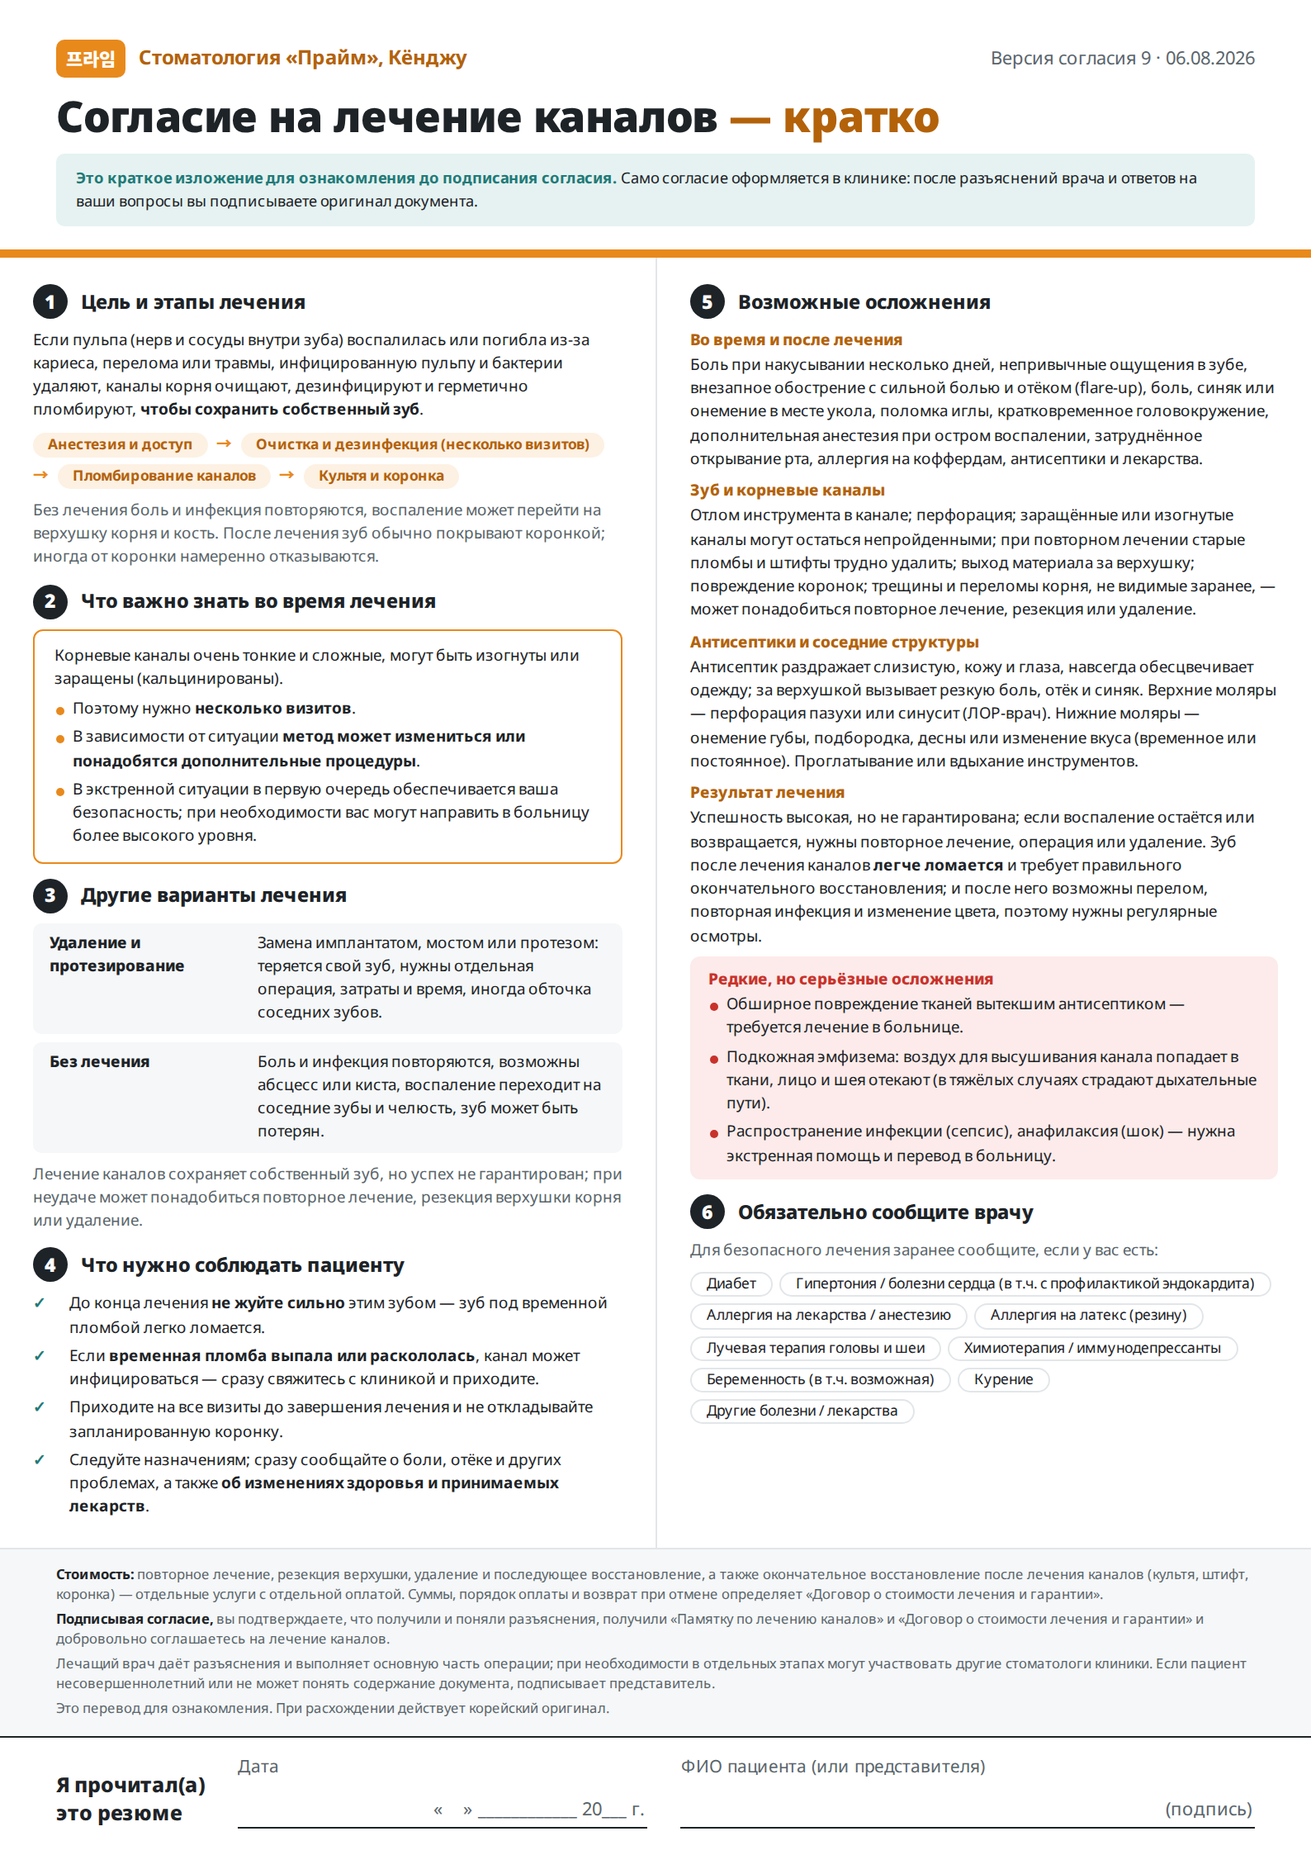
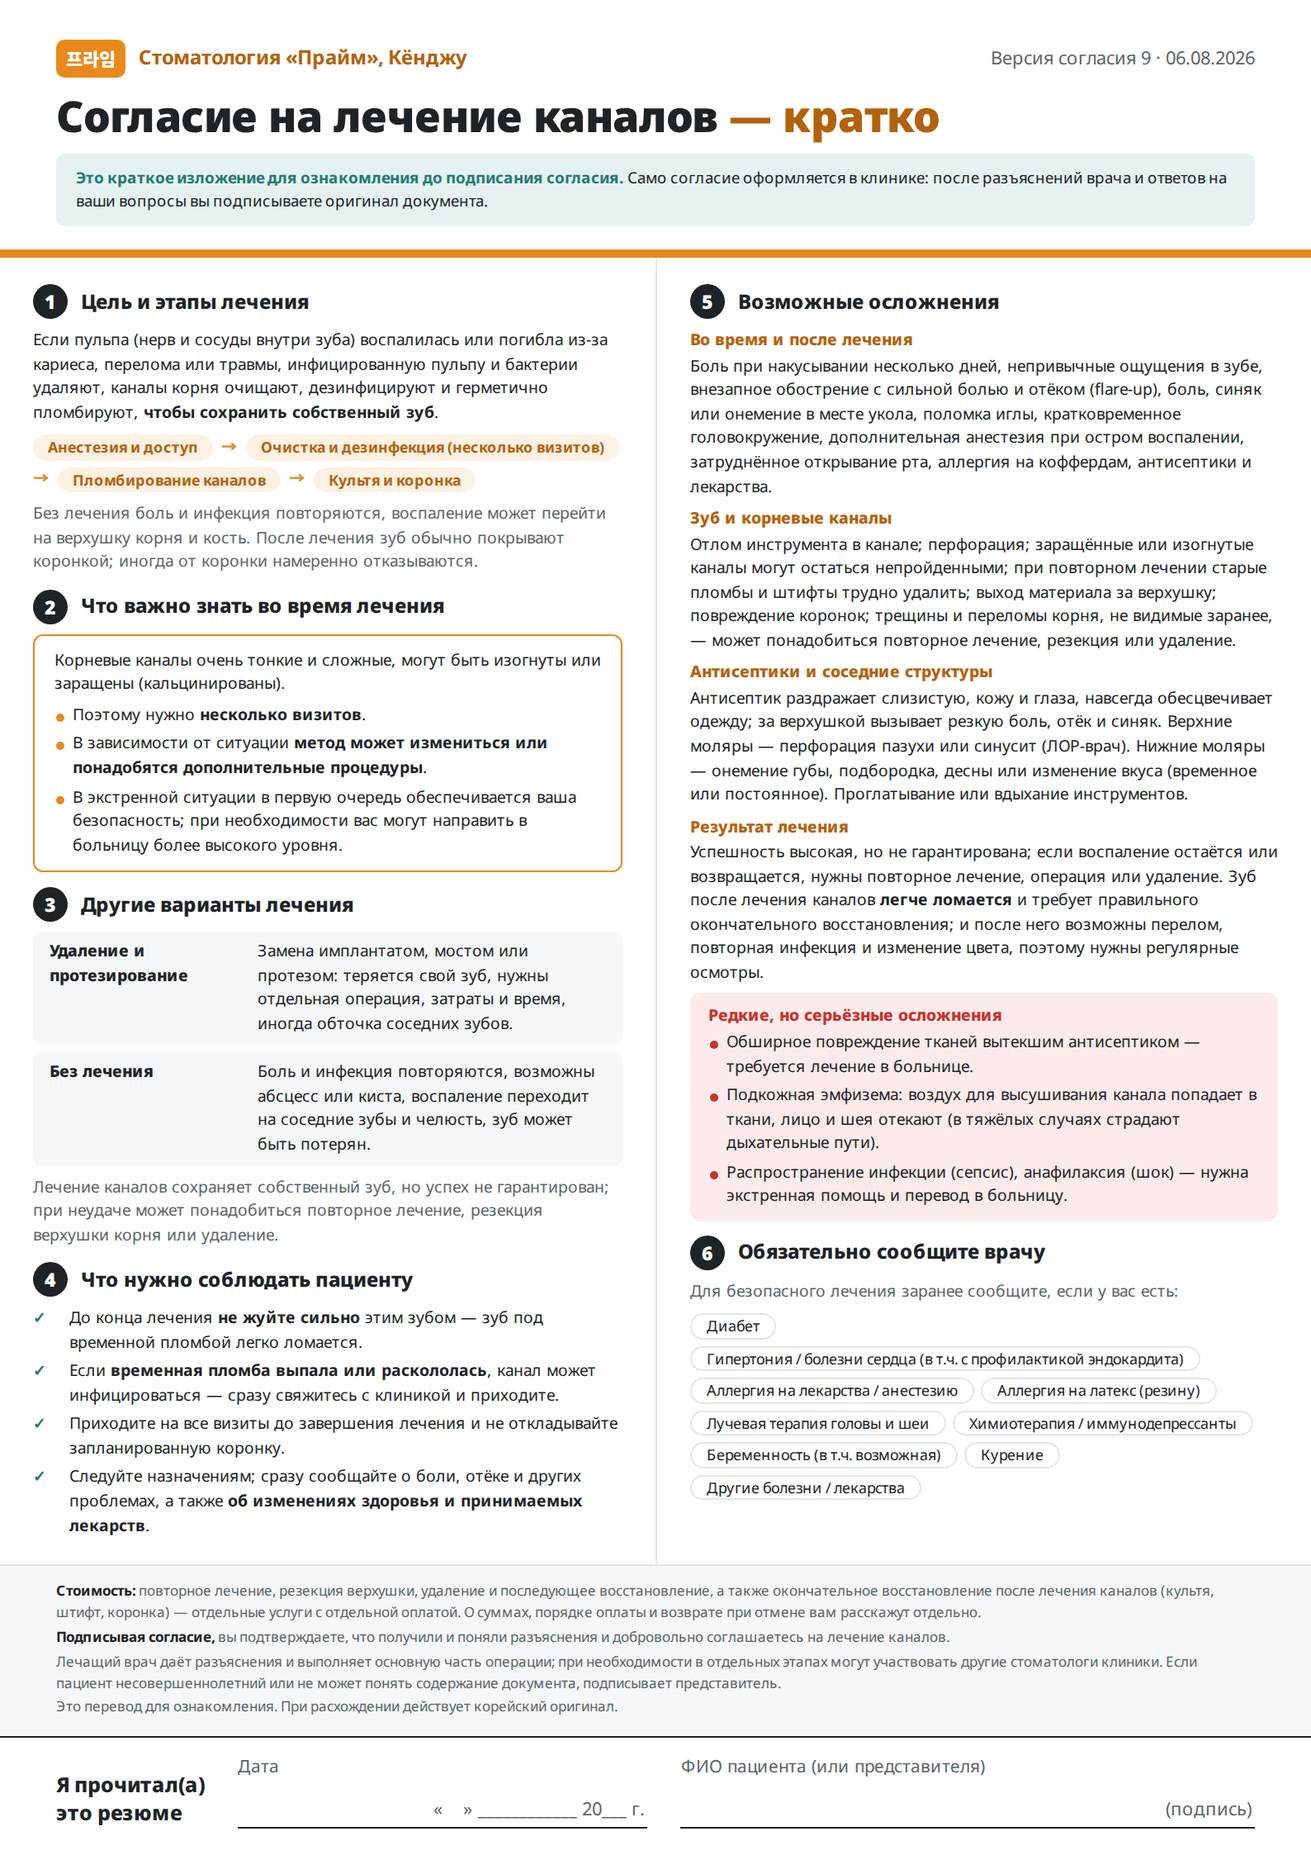
근관치료 동의서 요약: 근관치료 안내문·진료비 보증 계약서 언급 제외
Claude-Session: https://claude.ai/code/session_01CX56RpDesHuZ84DgHX2H83

diff --git a/handouts/근관치료_동의서_요약_th.html b/handouts/근관치료_동의서_요약_th.html
@@ -121,7 +121,7 @@ h2 { font-size: 1.24em; font-weight: 800; line-height: 1.3; }
     </section>
   </div>
 </main>
-<footer class="foot"><p><b>ค่ารักษา:</b> การรักษารากฟันซ้ำ ผ่าตัดปลายราก ถอนฟันและการบูรณะหลังจากนั้น รวมถึงการบูรณะขั้นสุดท้ายหลังรักษารากฟัน (แกนฟัน เดือยฟัน ครอบฟัน) เป็นการรักษาแยกต่างหากและมีค่าใช้จ่ายแยก จำนวนเงิน การชำระ และเงื่อนไขคืนเงินเมื่อยกเลิก กำหนดไว้ใน “สัญญาค่ารักษาและการรับประกัน”</p><p><b>การลงนามในหนังสือยินยอม</b> หมายถึงท่านได้รับคำอธิบายและเข้าใจเนื้อหาข้างต้น ได้รับ “เอกสารแนะนำการรักษารากฟัน” และ “สัญญาค่ารักษาและการรับประกัน” และยินยอมรับการรักษารากฟันด้วยความสมัครใจ</p><p>ทันตแพทย์เจ้าของไข้คือผู้ให้คำอธิบายและเป็นผู้ผ่าตัดหลัก หากจำเป็น ทันตแพทย์ท่านอื่นของคลินิกอาจร่วมในบางขั้นตอน หากผู้ป่วยเป็นผู้เยาว์หรือไม่สามารถเข้าใจเนื้อหาได้ ผู้แทนจะเป็นผู้ลงนาม</p><p>เอกสารนี้เป็นคำแปลเพื่อประกอบความเข้าใจ หากมีความไม่ตรงกัน ให้ยึดต้นฉบับภาษาเกาหลีเป็นหลัก</p></footer>
+<footer class="foot"><p><b>ค่ารักษา:</b> การรักษารากฟันซ้ำ ผ่าตัดปลายราก ถอนฟันและการบูรณะหลังจากนั้น รวมถึงการบูรณะขั้นสุดท้ายหลังรักษารากฟัน (แกนฟัน เดือยฟัน ครอบฟัน) เป็นการรักษาแยกต่างหากและมีค่าใช้จ่ายแยก จำนวนเงิน การชำระ และเงื่อนไขคืนเงินเมื่อยกเลิก จะแจ้งให้ทราบแยกต่างหาก</p><p><b>การลงนามในหนังสือยินยอม</b> หมายถึงท่านได้รับคำอธิบายและเข้าใจเนื้อหาข้างต้น และยินยอมรับการรักษารากฟันด้วยความสมัครใจ</p><p>ทันตแพทย์เจ้าของไข้คือผู้ให้คำอธิบายและเป็นผู้ผ่าตัดหลัก หากจำเป็น ทันตแพทย์ท่านอื่นของคลินิกอาจร่วมในบางขั้นตอน หากผู้ป่วยเป็นผู้เยาว์หรือไม่สามารถเข้าใจเนื้อหาได้ ผู้แทนจะเป็นผู้ลงนาม</p><p>เอกสารนี้เป็นคำแปลเพื่อประกอบความเข้าใจ หากมีความไม่ตรงกัน ให้ยึดต้นฉบับภาษาเกาหลีเป็นหลัก</p></footer>
 <section class="sign">
   <p class="lbl">ข้าพเจ้าได้อ่าน<br>เอกสารสรุปนี้แล้ว</p>
   <div class="f"><span>วันที่</span><div>______ เดือน __________ พ.ศ. ______</div></div>

diff --git a/handouts/근관치료_동의서_요약_ru.html b/handouts/근관치료_동의서_요약_ru.html
@@ -121,7 +121,7 @@ h2 { font-size: 1.24em; font-weight: 800; line-height: 1.3; }
     </section>
   </div>
 </main>
-<footer class="foot"><p><b>Стоимость:</b> повторное лечение, резекция верхушки, удаление и последующее восстановление, а также окончательное восстановление после лечения каналов (культя, штифт, коронка) — отдельные услуги с отдельной оплатой. Суммы, порядок оплаты и возврат при отмене определяет «Договор о стоимости лечения и гарантии».</p><p><b>Подписывая согласие,</b> вы подтверждаете, что получили и поняли разъяснения, получили «Памятку по лечению каналов» и «Договор о стоимости лечения и гарантии» и добровольно соглашаетесь на лечение каналов.</p><p>Лечащий врач даёт разъяснения и выполняет основную часть операции; при необходимости в отдельных этапах могут участвовать другие стоматологи клиники. Если пациент несовершеннолетний или не может понять содержание документа, подписывает представитель.</p><p>Это перевод для ознакомления. При расхождении действует корейский оригинал.</p></footer>
+<footer class="foot"><p><b>Стоимость:</b> повторное лечение, резекция верхушки, удаление и последующее восстановление, а также окончательное восстановление после лечения каналов (культя, штифт, коронка) — отдельные услуги с отдельной оплатой. О суммах, порядке оплаты и возврате при отмене вам расскажут отдельно.</p><p><b>Подписывая согласие,</b> вы подтверждаете, что получили и поняли разъяснения и добровольно соглашаетесь на лечение каналов.</p><p>Лечащий врач даёт разъяснения и выполняет основную часть операции; при необходимости в отдельных этапах могут участвовать другие стоматологи клиники. Если пациент несовершеннолетний или не может понять содержание документа, подписывает представитель.</p><p>Это перевод для ознакомления. При расхождении действует корейский оригинал.</p></footer>
 <section class="sign">
   <p class="lbl">Я прочитал(а)<br>это резюме</p>
   <div class="f"><span>Дата</span><div>«&nbsp;&nbsp;&nbsp;&nbsp;» ____________ 20___ г.</div></div>

diff --git a/handouts/근관치료_동의서_요약_vi.html b/handouts/근관치료_동의서_요약_vi.html
@@ -121,7 +121,7 @@ h2 { font-size: 1.24em; font-weight: 800; line-height: 1.3; }
     </section>
   </div>
 </main>
-<footer class="foot"><p><b>Chi phí:</b> điều trị tủy lại, phẫu thuật cắt chóp, nhổ răng và phục hình sau đó, cũng như phục hình cuối cùng sau điều trị tủy (cùi, chốt, mão răng) là các điều trị riêng với chi phí riêng. Số tiền, cách thanh toán và quy định hoàn tiền khi hủy được nêu trong “Hợp đồng chi phí điều trị và bảo hành”.</p><p><b>Khi ký giấy đồng ý,</b> quý vị xác nhận đã được giải thích và hiểu các nội dung trên, đã nhận “Hướng dẫn điều trị tủy” và “Hợp đồng chi phí điều trị và bảo hành”, và tự nguyện đồng ý điều trị tủy.</p><p>Bác sĩ điều trị là người giải thích và thực hiện chính ca phẫu thuật; khi cần, nha sĩ khác của phòng khám có thể tham gia một số bước. Nếu bệnh nhân là trẻ vị thành niên hoặc không thể hiểu nội dung, người đại diện sẽ ký.</p><p>Đây là bản dịch để tham khảo. Nếu có khác biệt, bản gốc tiếng Hàn được ưu tiên áp dụng.</p></footer>
+<footer class="foot"><p><b>Chi phí:</b> điều trị tủy lại, phẫu thuật cắt chóp, nhổ răng và phục hình sau đó, cũng như phục hình cuối cùng sau điều trị tủy (cùi, chốt, mão răng) là các điều trị riêng với chi phí riêng. Số tiền, cách thanh toán và quy định hoàn tiền khi hủy sẽ được thông báo riêng.</p><p><b>Khi ký giấy đồng ý,</b> quý vị xác nhận đã được giải thích, hiểu các nội dung trên và tự nguyện đồng ý điều trị tủy.</p><p>Bác sĩ điều trị là người giải thích và thực hiện chính ca phẫu thuật; khi cần, nha sĩ khác của phòng khám có thể tham gia một số bước. Nếu bệnh nhân là trẻ vị thành niên hoặc không thể hiểu nội dung, người đại diện sẽ ký.</p><p>Đây là bản dịch để tham khảo. Nếu có khác biệt, bản gốc tiếng Hàn được ưu tiên áp dụng.</p></footer>
 <section class="sign">
   <p class="lbl">Tôi đã đọc<br>bản tóm tắt này</p>
   <div class="f"><span>Ngày</span><div>ngày ______ tháng ______ năm ________</div></div>

diff --git a/handouts/근관치료_동의서_요약_en.html b/handouts/근관치료_동의서_요약_en.html
@@ -121,7 +121,7 @@ h2 { font-size: 1.24em; font-weight: 800; line-height: 1.3; }
     </section>
   </div>
 </main>
-<footer class="foot"><p><b>Fees:</b> retreatment, apical surgery, extraction and later restoration, and the final restoration after root canal treatment (core, post, crown) are separate treatments with separate fees. Amounts, payment and refund rules on cancellation are set out in the “Treatment Fee and Warranty Agreement”, not in this form.</p><p><b>By signing the consent form,</b> you confirm that you received and understood the explanation, received the “Root Canal Treatment Guide” and the “Treatment Fee and Warranty Agreement”, and agree to root canal treatment of your own free will.</p><p>The attending dentist gives the explanation and performs the main part of the surgery; if needed, other dentists at the clinic may take part in some steps. If the patient is a minor or cannot understand the document, a representative signs.</p><p>This is a translation for reference. If there is any difference, the Korean original prevails.</p></footer>
+<footer class="foot"><p><b>Fees:</b> retreatment, apical surgery, extraction and later restoration, and the final restoration after root canal treatment (core, post, crown) are separate treatments with separate fees. Amounts, payment and refund rules on cancellation will be explained to you separately.</p><p><b>By signing the consent form,</b> you confirm that you received and understood the explanation and agree to root canal treatment of your own free will.</p><p>The attending dentist gives the explanation and performs the main part of the surgery; if needed, other dentists at the clinic may take part in some steps. If the patient is a minor or cannot understand the document, a representative signs.</p><p>This is a translation for reference. If there is any difference, the Korean original prevails.</p></footer>
 <section class="sign">
   <p class="lbl">I have read<br>this summary</p>
   <div class="f"><span>Date</span><div>______ / ______ / __________</div></div>

diff --git a/handouts/근관치료_동의서_요약.html b/handouts/근관치료_동의서_요약.html
@@ -121,7 +121,7 @@ h2 { font-size: 1.24em; font-weight: 800; line-height: 1.3; }
     </section>
   </div>
 </main>
-<footer class="foot"><p><b>진료비</b> — 재근관치료·치근단 수술·발치 후 수복, 그리고 근관치료 후 최종 수복(코어·기둥·크라운)은 별도 진료로 비용이 따로 듭니다. 금액·납부·취소 시 정산 기준은 「진료비·보증 계약서」에서 정합니다.</p><p><b>동의서에 서명하시면</b> 위 내용을 설명 듣고 이해했으며, 「근관치료 안내문」과 「진료비·보증 계약서」를 받았고, 자유로운 의사로 근관치료에 동의함을 확인하게 됩니다.</p><p>주치의는 설명을 맡고 시술을 주도하는 의사이며, 필요하면 본원의 다른 치과의사가 일부 과정에 참여할 수 있습니다. 미성년자이거나 내용을 이해하기 어려운 경우에는 대리인이 서명합니다.</p></footer>
+<footer class="foot"><p><b>진료비</b> — 재근관치료·치근단 수술·발치 후 수복, 그리고 근관치료 후 최종 수복(코어·기둥·크라운)은 별도 진료로 비용이 따로 듭니다. 금액·납부·취소 시 정산 기준은 따로 안내해 드립니다.</p><p><b>동의서에 서명하시면</b> 위 내용을 설명 듣고 이해했으며, 자유로운 의사로 근관치료에 동의함을 확인하게 됩니다.</p><p>주치의는 설명을 맡고 시술을 주도하는 의사이며, 필요하면 본원의 다른 치과의사가 일부 과정에 참여할 수 있습니다. 미성년자이거나 내용을 이해하기 어려운 경우에는 대리인이 서명합니다.</p></footer>
 <section class="sign">
   <p class="lbl">요약본을 읽고<br>확인했습니다</p>
   <div class="f"><span>확인일</span><div>년&emsp;&emsp;&emsp;월&emsp;&emsp;&emsp;일</div></div>

diff --git a/handouts/근관치료_동의서_요약_zh.html b/handouts/근관치료_동의서_요약_zh.html
@@ -121,7 +121,7 @@ h2 { font-size: 1.24em; font-weight: 800; line-height: 1.3; }
     </section>
   </div>
 </main>
-<footer class="foot"><p><b>费用：</b>根管再治疗、根尖手术、拔牙及其后的修复，以及根管治疗后的最终修复（桩核、牙冠）均为另行治疗，费用另计。金额、付款方式及取消时的结算退款标准以《诊疗费用及保修合同》为准。</p><p><b>签署同意书即表示</b>您已听取并理解上述说明，已收到《根管治疗须知》和《诊疗费用及保修合同》，并自愿同意接受根管治疗。</p><p>主治医生是负责说明并主导手术的医生；必要时本院其他牙医可参与部分过程。患者为未成年人或难以理解本文件内容时，由代理人签字。</p><p>本文件为参考译文，如有出入，以韩文原件为准。</p></footer>
+<footer class="foot"><p><b>费用：</b>根管再治疗、根尖手术、拔牙及其后的修复，以及根管治疗后的最终修复（桩核、牙冠）均为另行治疗，费用另计。金额、付款方式及取消时的结算退款标准将另行说明。</p><p><b>签署同意书即表示</b>您已听取并理解上述说明，并自愿同意接受根管治疗。</p><p>主治医生是负责说明并主导手术的医生；必要时本院其他牙医可参与部分过程。患者为未成年人或难以理解本文件内容时，由代理人签字。</p><p>本文件为参考译文，如有出入，以韩文原件为准。</p></footer>
 <section class="sign">
   <p class="lbl">本人已阅读<br>本摘要</p>
   <div class="f"><span>日期</span><div>________ 年 ______ 月 ______ 日</div></div>
